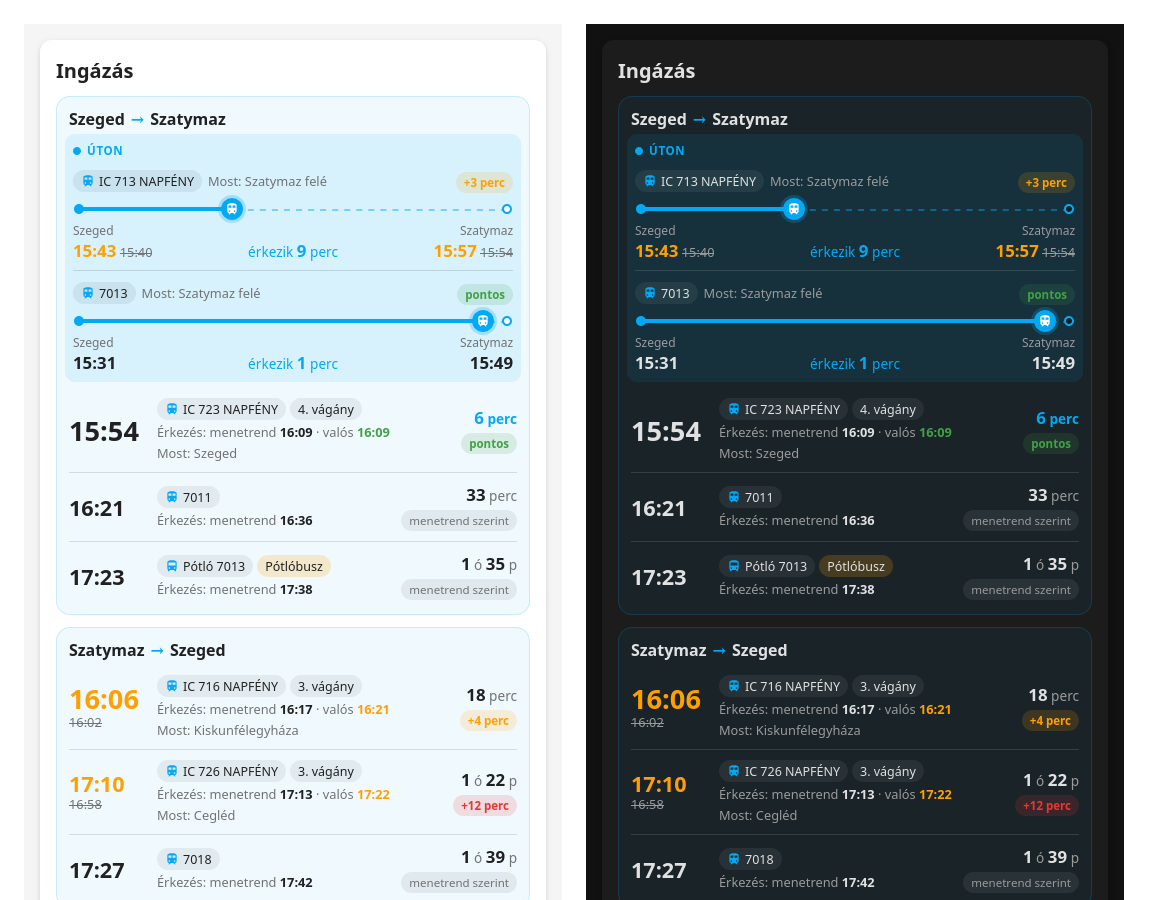
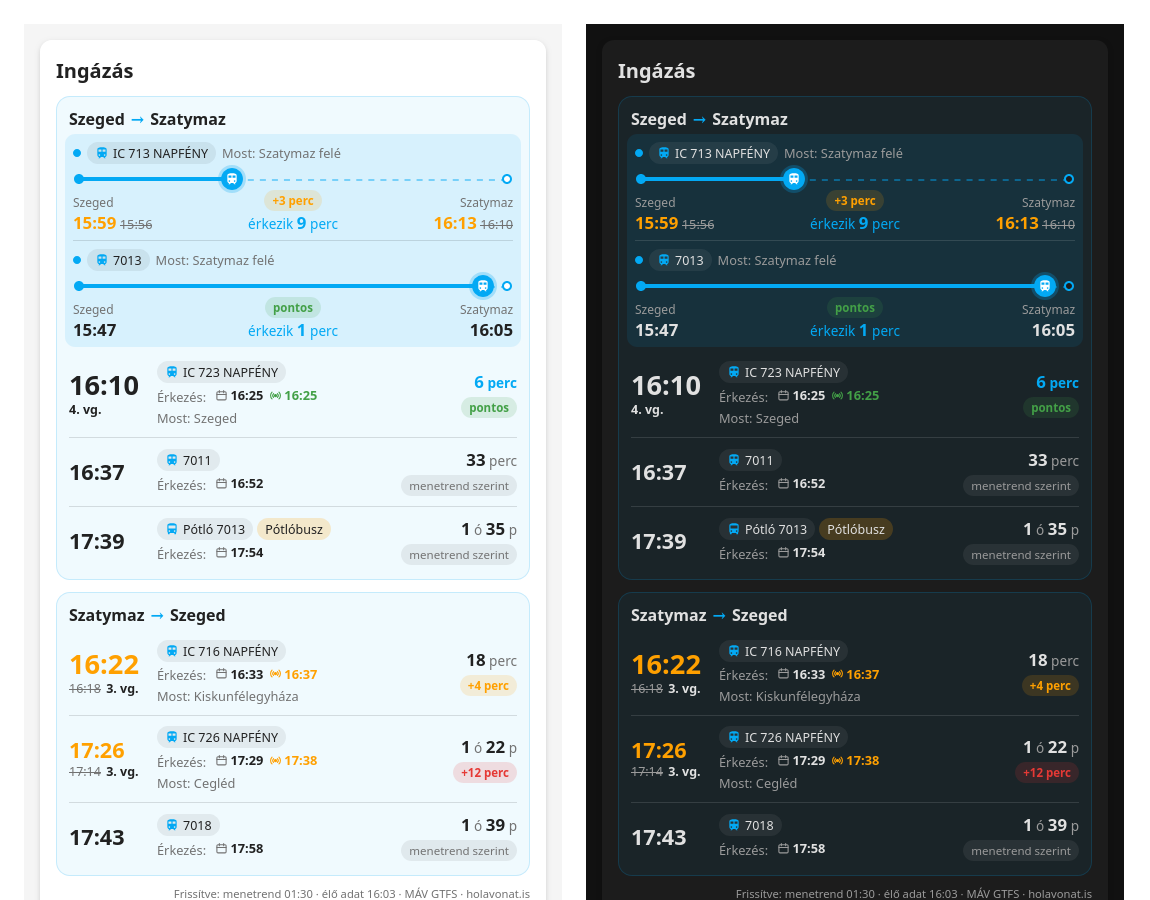
feat: more compact card layout
Trains on their way drop the block title for a pulsing dot and show the
delay under the track. Departures show the platform under the time and
mark scheduled and actual arrival with icons.

Changed region(s): [[0.0304, 0.1556, 0.4565, 1.0], [0.5478, 0.1556, 0.9435, 1.0]]

diff --git a/custom_components/holavonat/frontend/holavonat-card.js b/custom_components/holavonat/frontend/holavonat-card.js
@@ -16,6 +16,7 @@ const STRINGS = {
     hour: "ó",
     minShort: "p",
     platform: "vágány",
+    platformShort: "vg.",
     at: "Most",
     arrives: "Érkezés",
     scheduledShort: "menetrend",
@@ -42,6 +43,7 @@ const STRINGS = {
     hour: "h",
     minShort: "m",
     platform: "platform",
+    platformShort: "pl.",
     at: "Now",
     arrives: "Arrival",
     scheduledShort: "scheduled",
@@ -61,6 +63,8 @@ const STRINGS = {
   },
 };
 
+const SCHEDULE_ICON = `<svg class="pic" viewBox="0 0 24 24" aria-hidden="true" fill="none" stroke="currentColor" stroke-width="2" stroke-linecap="round"><rect x="3.5" y="5" width="17" height="15" rx="2"/><path d="M3.5 10h17M8 3v4M16 3v4"/></svg>`;
+const LIVE_ICON = `<svg class="pic" viewBox="0 0 24 24" aria-hidden="true" fill="none" stroke="currentColor" stroke-width="2" stroke-linecap="round"><circle cx="12" cy="12" r="2" fill="currentColor"/><path d="M8.5 8.5a5 5 0 0 0 0 7M15.5 8.5a5 5 0 0 1 0 7M5.6 5.6a9 9 0 0 0 0 12.8M18.4 5.6a9 9 0 0 1 0 12.8"/></svg>`;
 const TRAIN_ICON = `<svg viewBox="0 0 24 24" aria-hidden="true"><path fill="currentColor" d="M12 2C8 2 4 2.5 4 6v9.5A3.5 3.5 0 0 0 7.5 19L6 20.5v.5h2.23l2-2H14l2 2h2v-.5L16.5 19a3.5 3.5 0 0 0 3.5-3.5V6c0-3.5-3.58-4-8-4M7.5 17A1.5 1.5 0 0 1 6 15.5 1.5 1.5 0 0 1 7.5 14 1.5 1.5 0 0 1 9 15.5 1.5 1.5 0 0 1 7.5 17m3.5-7H6V6h5zm2 0V6h5v4zm3.5 7a1.5 1.5 0 0 1-1.5-1.5 1.5 1.5 0 0 1 1.5-1.5 1.5 1.5 0 0 1 1.5 1.5 1.5 1.5 0 0 1-1.5 1.5"/></svg>`;
 const BUS_ICON = `<svg viewBox="0 0 24 24" aria-hidden="true"><path fill="currentColor" d="M18 11H6V6h12M16.5 17a1.5 1.5 0 0 1-1.5-1.5 1.5 1.5 0 0 1 1.5-1.5 1.5 1.5 0 0 1 1.5 1.5 1.5 1.5 0 0 1-1.5 1.5m-9 0A1.5 1.5 0 0 1 6 15.5 1.5 1.5 0 0 1 7.5 14 1.5 1.5 0 0 1 9 15.5 1.5 1.5 0 0 1 7.5 17M4 16c0 .88.39 1.67 1 2.22V20a1 1 0 0 0 1 1h1a1 1 0 0 0 1-1v-1h8v1a1 1 0 0 0 1 1h1a1 1 0 0 0 1-1v-1.78c.61-.55 1-1.34 1-2.22V6c0-3.5-3.58-4-8-4s-8 .5-8 4z"/></svg>`;
 
@@ -171,17 +175,20 @@ class HolavonatCard extends HTMLElement {
     const delayed = train.realtime && (train.delay_min ?? 0) > 0;
     const meta = [
       `<span class="chip">${train.replacement_bus ? BUS_ICON : TRAIN_ICON}${esc(train.train || "")}</span>`,
-      train.platform ? `<span class="chip">${esc(train.platform)}. ${t.platform}</span>` : "",
       train.replacement_bus ? `<span class="chip bus">${t.bus}</span>` : "",
     ].join("");
     const where = train.realtime && train.current_stop
       ? `<div class="where">${this._where(train)}</div>`
       : "";
+    const below = [
+      delayed ? `<s>${this._time(train.scheduled_departure)}</s>` : "",
+      train.platform ? `<span class="plat">${esc(train.platform)}. ${t.platformShort}</span>` : "",
+    ].filter(Boolean).join(" ");
     return `
       <div class="train ${first ? "first" : ""}">
         <div class="when">
           <div class="time ${delayed ? "late" : ""}">${this._time(train.state)}</div>
-          ${delayed ? `<div class="sched">${this._time(train.scheduled_departure)}</div>` : ""}
+          ${below ? `<div class="below">${below}</div>` : ""}
         </div>
         <div class="info">
           <div class="meta">${meta}</div>
@@ -217,10 +224,10 @@ class HolavonatCard extends HTMLElement {
     return `
       <div class="trip">
         <div class="trip-head">
+          <span class="pulse" title="${t.enRoute}"></span>
           <span class="chip">${train.replacement_bus ? BUS_ICON : TRAIN_ICON}${esc(train.train || "")}</span>
           ${train.replacement_bus ? `<span class="chip bus">${t.bus}</span>` : ""}
           ${where}
-          <span class="trip-badge">${badge}</span>
         </div>
         <div class="track" style="--p:${(progress * 100).toFixed(1)}%">
           <span class="dot start"></span>
@@ -230,7 +237,7 @@ class HolavonatCard extends HTMLElement {
         </div>
         <div class="trip-ends">
           <div><div class="stn">${esc(train.origin)}</div>${late(train.scheduled_departure, train.expected_departure || train.scheduled_departure, depDelayed)}</div>
-          <div class="trip-eta">${countdown}</div>
+          <div class="trip-eta"><div>${badge}</div><div>${countdown}</div></div>
           <div class="end"><div class="stn">${esc(train.destination)}</div>${late(train.scheduled_arrival, train.expected_arrival, d > 0)}</div>
         </div>
       </div>`;
@@ -250,9 +257,9 @@ class HolavonatCard extends HTMLElement {
     if (train.realtime && train.arrival_delay_min != null) {
       const d = train.arrival_delay_min;
       const cls = d >= 10 ? "bad" : d > 0 ? "late" : "ok";
-      actual = ` · ${t.actualShort} <b class="arr ${cls}">${this._time(train.expected_arrival)}</b>`;
+      actual = `<span class="pt ${cls}" title="${t.actualShort}">${LIVE_ICON}<b class="arr ${cls}">${this._time(train.expected_arrival)}</b></span>`;
     }
-    return `<div class="sub arrival">${t.arrives}: ${t.scheduledShort} <b>${scheduled}</b>${actual}</div>`;
+    return `<div class="sub arrival">${t.arrives}: <span class="pt" title="${t.scheduledShort}">${SCHEDULE_ICON}<b>${scheduled}</b></span>${actual}</div>`;
   }
 
   _status() {
@@ -289,7 +296,6 @@ class HolavonatCard extends HTMLElement {
       : `<div class="empty">${t.none}</div>`;
     const enRoute = (dir.enRoute || []).length
       ? `<div class="enroute-block">
-          <div class="block-title"><span class="pulse"></span>${t.enRoute}</div>
           ${dir.enRoute.map((train) => this._enRouteRow(train)).join("")}
         </div>`
       : "";
@@ -367,7 +373,14 @@ const STYLE = `
   .time { font-size: 1.35rem; font-weight: 700; font-variant-numeric: tabular-nums; line-height: 1.1; }
   .train.first .time { font-size: 1.7rem; }
   .time.late { color: var(--hv-warn); }
-  .sched { font-size: .8rem; color: var(--hv-muted); text-decoration: line-through; font-variant-numeric: tabular-nums; }
+  .below { font-size: .78rem; color: var(--hv-muted); font-variant-numeric: tabular-nums; white-space: nowrap; margin-top: 1px; }
+  .below s { margin-right: 2px; }
+  .plat { font-weight: 600; color: var(--primary-text-color); }
+  .pt { display: inline-flex; align-items: center; gap: 2px; margin-left: 6px; white-space: nowrap; }
+  .pic { width: 13px; height: 13px; flex: none; }
+  .pt.late .pic { color: var(--hv-warn); }
+  .pt.bad .pic { color: var(--hv-bad); }
+  .pt.ok .pic { color: var(--hv-ok); }
   .info { min-width: 0; }
   .meta { display: flex; flex-wrap: wrap; gap: 4px; }
   .chip {
@@ -394,21 +407,16 @@ const STYLE = `
   .badge.bad { color: var(--hv-bad); background: color-mix(in srgb, var(--hv-bad) 15%, transparent); }
   .badge.muted { color: var(--hv-muted); background: color-mix(in srgb, var(--hv-muted) 12%, transparent); font-weight: 500; }
   .enroute-block {
-    margin: 4px -4px 6px; padding: 2px 8px 0; border-radius: 10px;
+    margin: 2px -4px 4px; padding: 0 8px; border-radius: 10px;
     background: color-mix(in srgb, var(--hv-accent) 10%, transparent);
   }
-  .block-title {
-    display: flex; align-items: center; gap: 6px; padding-top: 6px;
-    font-size: .72rem; font-weight: 600; letter-spacing: .06em; text-transform: uppercase; color: var(--hv-accent);
-  }
-  .pulse { width: 8px; height: 8px; border-radius: 50%; background: var(--hv-accent); animation: hv-pulse 1.6s ease-in-out infinite; }
+  .pulse { width: 8px; height: 8px; flex: none; border-radius: 50%; background: var(--hv-accent); animation: hv-pulse 1.6s ease-in-out infinite; }
   @keyframes hv-pulse { 0%, 100% { opacity: 1; } 50% { opacity: .3; } }
-  .trip { padding: 10px 0 8px; }
+  .trip { padding: 8px 0 6px; }
   .trip + .trip { border-top: 1px solid var(--hv-line); }
   .trip-head { display: flex; align-items: center; gap: 6px; flex-wrap: wrap; }
   .trip-where { font-size: .8rem; color: var(--hv-muted); }
-  .trip-badge { margin-left: auto; }
-  .track { position: relative; height: 22px; margin: 6px 6px 2px; }
+  .track { position: relative; height: 22px; margin: 4px 6px 0; }
   .track::before {
     content: ""; position: absolute; left: 0; right: 0; top: 50%; height: 0;
     border-top: 2px dashed color-mix(in srgb, var(--hv-accent) 45%, transparent);
@@ -435,7 +443,7 @@ const STYLE = `
   .trip-ends b { font-size: 1.05rem; font-variant-numeric: tabular-nums; }
   .trip-ends b.late { color: var(--hv-warn); }
   .trip-ends s { color: var(--hv-muted); font-size: .8rem; }
-  .trip-eta { text-align: center; color: var(--hv-accent); white-space: nowrap; }
+  .trip-eta { text-align: center; color: var(--hv-accent); white-space: nowrap; display: flex; flex-direction: column; align-items: center; gap: 2px; }
   .trip-eta b { font-size: 1.05rem; }
   .empty { color: var(--hv-muted); font-size: .9rem; padding: 12px 0; }
   .footer { margin-top: 10px; font-size: .7rem; color: var(--hv-muted); text-align: right; }

diff --git a/README.md b/README.md
@@ -127,11 +127,12 @@ A kártyán látható:
 
 - a várható indulás, késésnél narancssárgával és alatta áthúzva a menetrend szerinti idő,
 - a visszaszámlálás (10 percen belül kiemelve),
-- a vonat neve, a vágány és hogy hol jár most a vonat,
-- az érkezés: menetrend szerinti idő, és ha van élő adat, a valós (várható) érkezés színkóddal,
+- az időpont alatt a vágány,
+- a vonat neve és hogy hol jár most a vonat,
+- az érkezés: naptár ikonnal a menetrend szerinti, adásjel ikonnal a valós (várható) érkezés, színkóddal,
 - a késés színkóddal: zöld pontos, narancs késik, piros 10 percnél többet késik, szürke menetrend szerinti (még nincs élő adat),
 - a pótlóbusz jelölése,
-- bekapcsolt „Úton lévő vonatok” beállításnál külön „Úton” blokkban a két állomás között járó vonatok, menetvonallal: a vonat a jelenlegi helyén, két végén az indulási és az érkezési idő (késésnél áthúzva a menetrend szerinti), középen hogy hány perc múlva érkezik,
+- bekapcsolt „Úton lévő vonatok” beállításnál a két állomás között járó vonatok felül, kiemelt háttérrel és pulzáló kék ponttal, menetvonallal: a vonat a jelenlegi helyén, két végén az indulási és az érkezési idő (késésnél áthúzva a menetrend szerinti), középen a késés és hogy hány perc múlva érkezik,
 - hol jár a vonat: „Szatymaz felé” (úton a megálló felé) vagy „Szatymaz állomáson” (ott áll),
 - alul a frissítési idők: mikor töltődött le a menetrend, és mikor készült az élő adat (a holavonat.is adatfolyam saját időbélyege). A mai nap időpontjai csak órával, a korábbiak dátummal jelennek meg.
 
